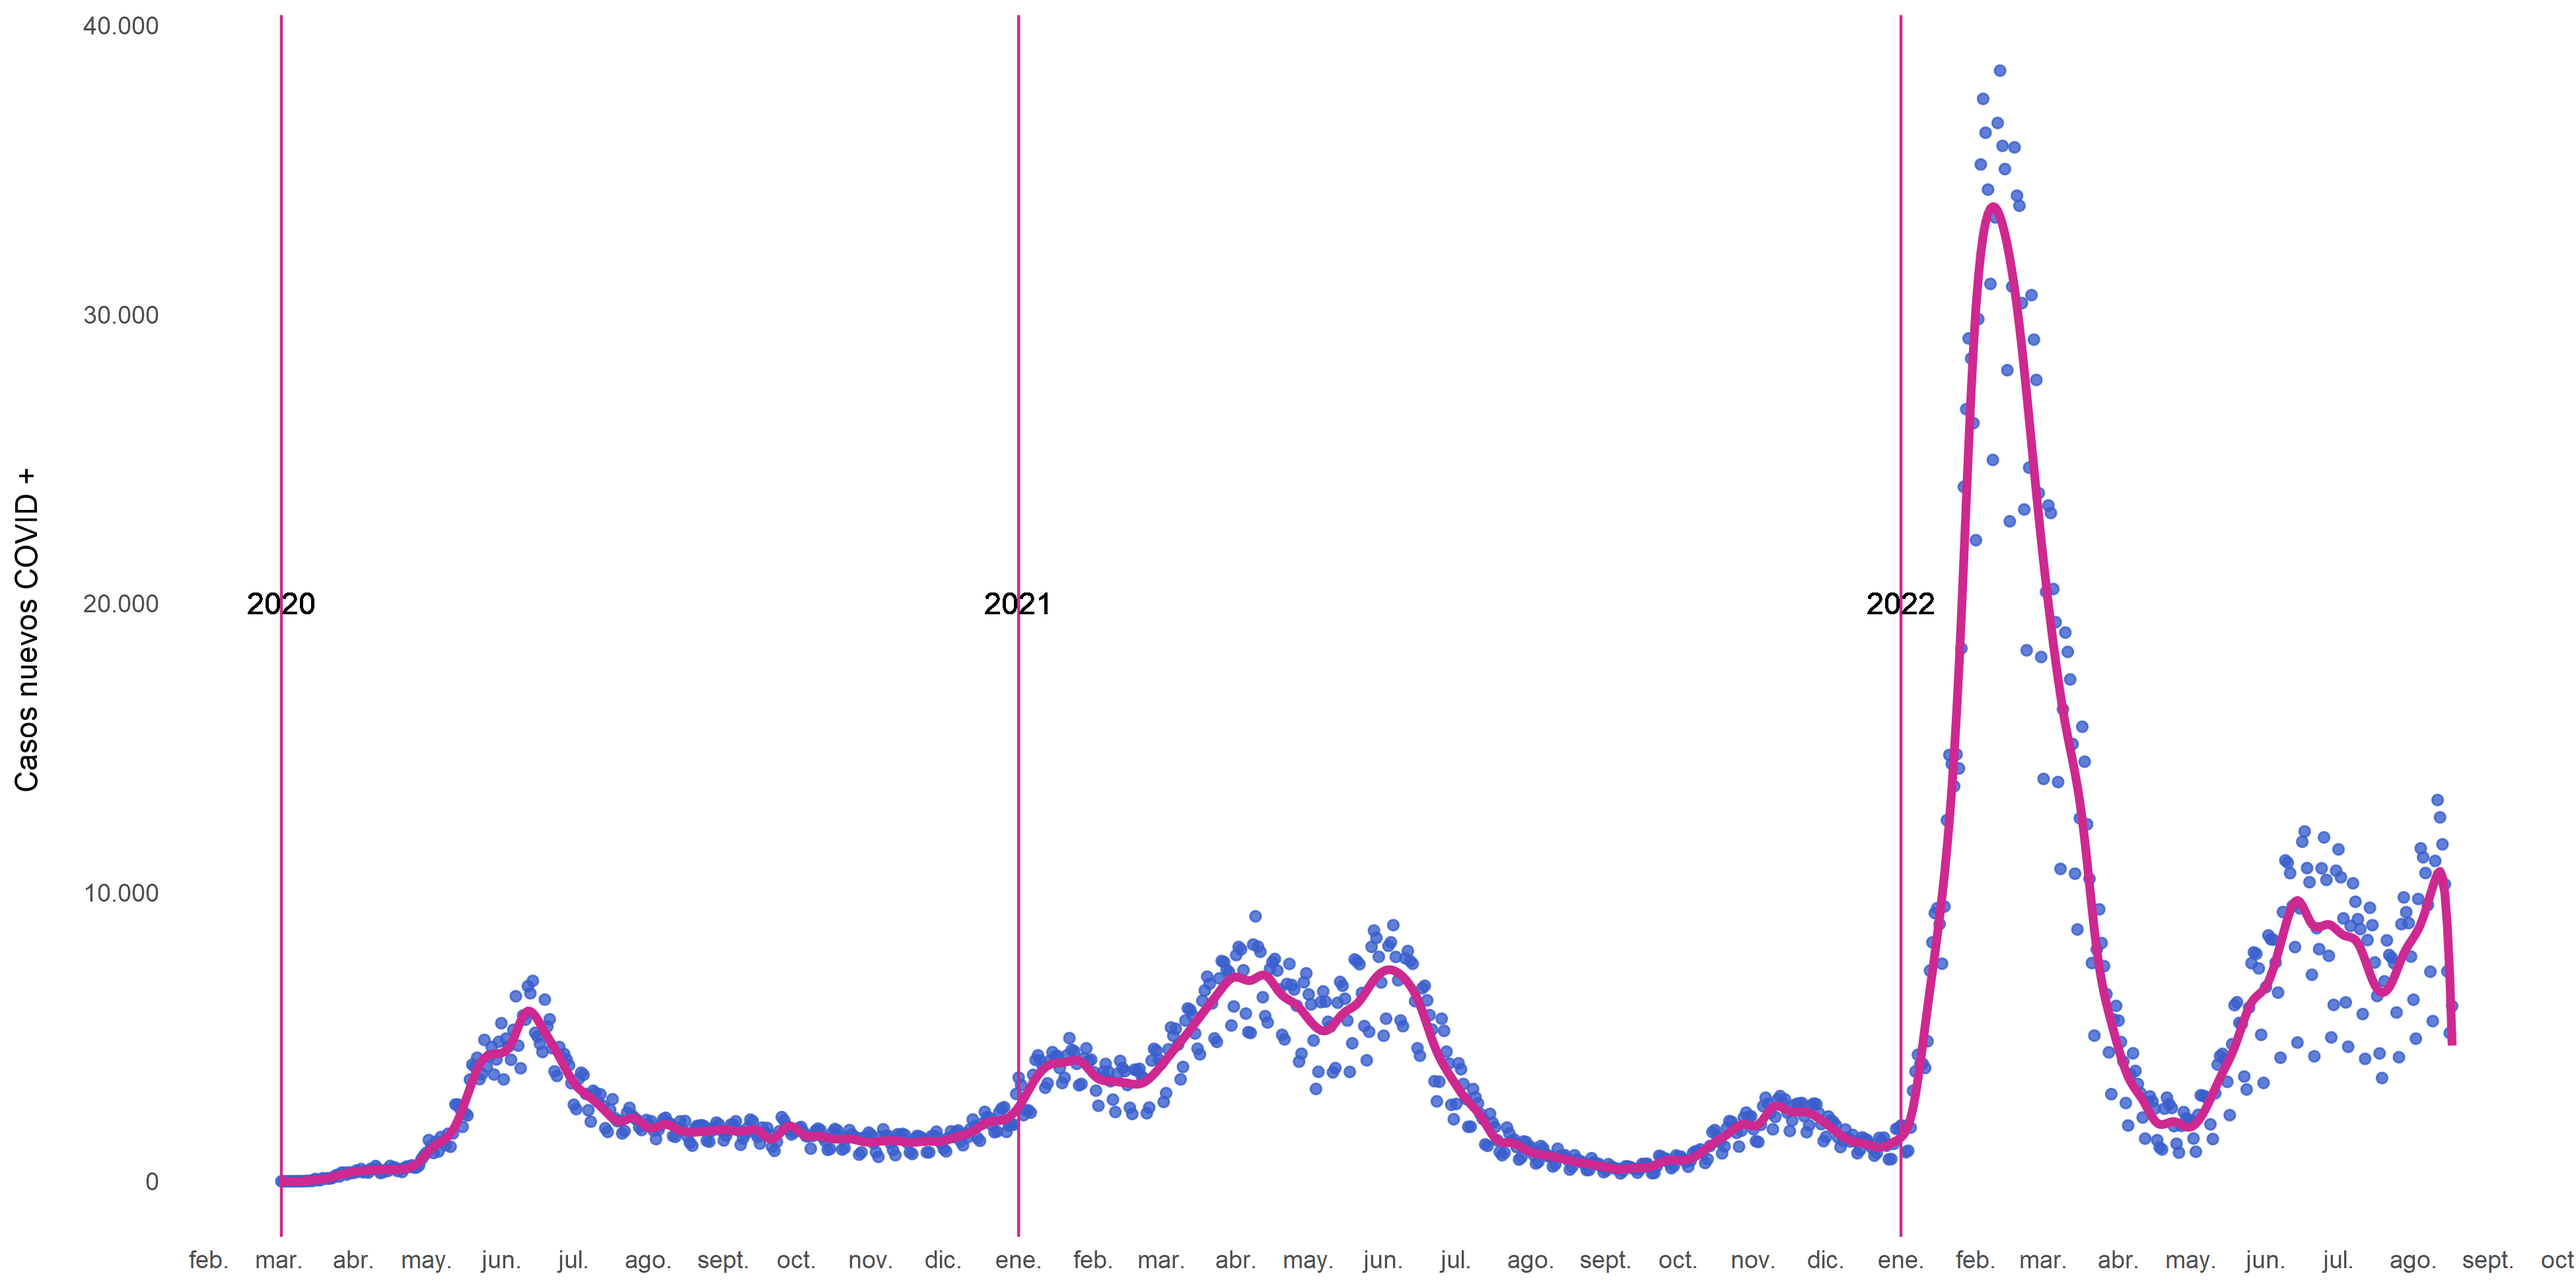
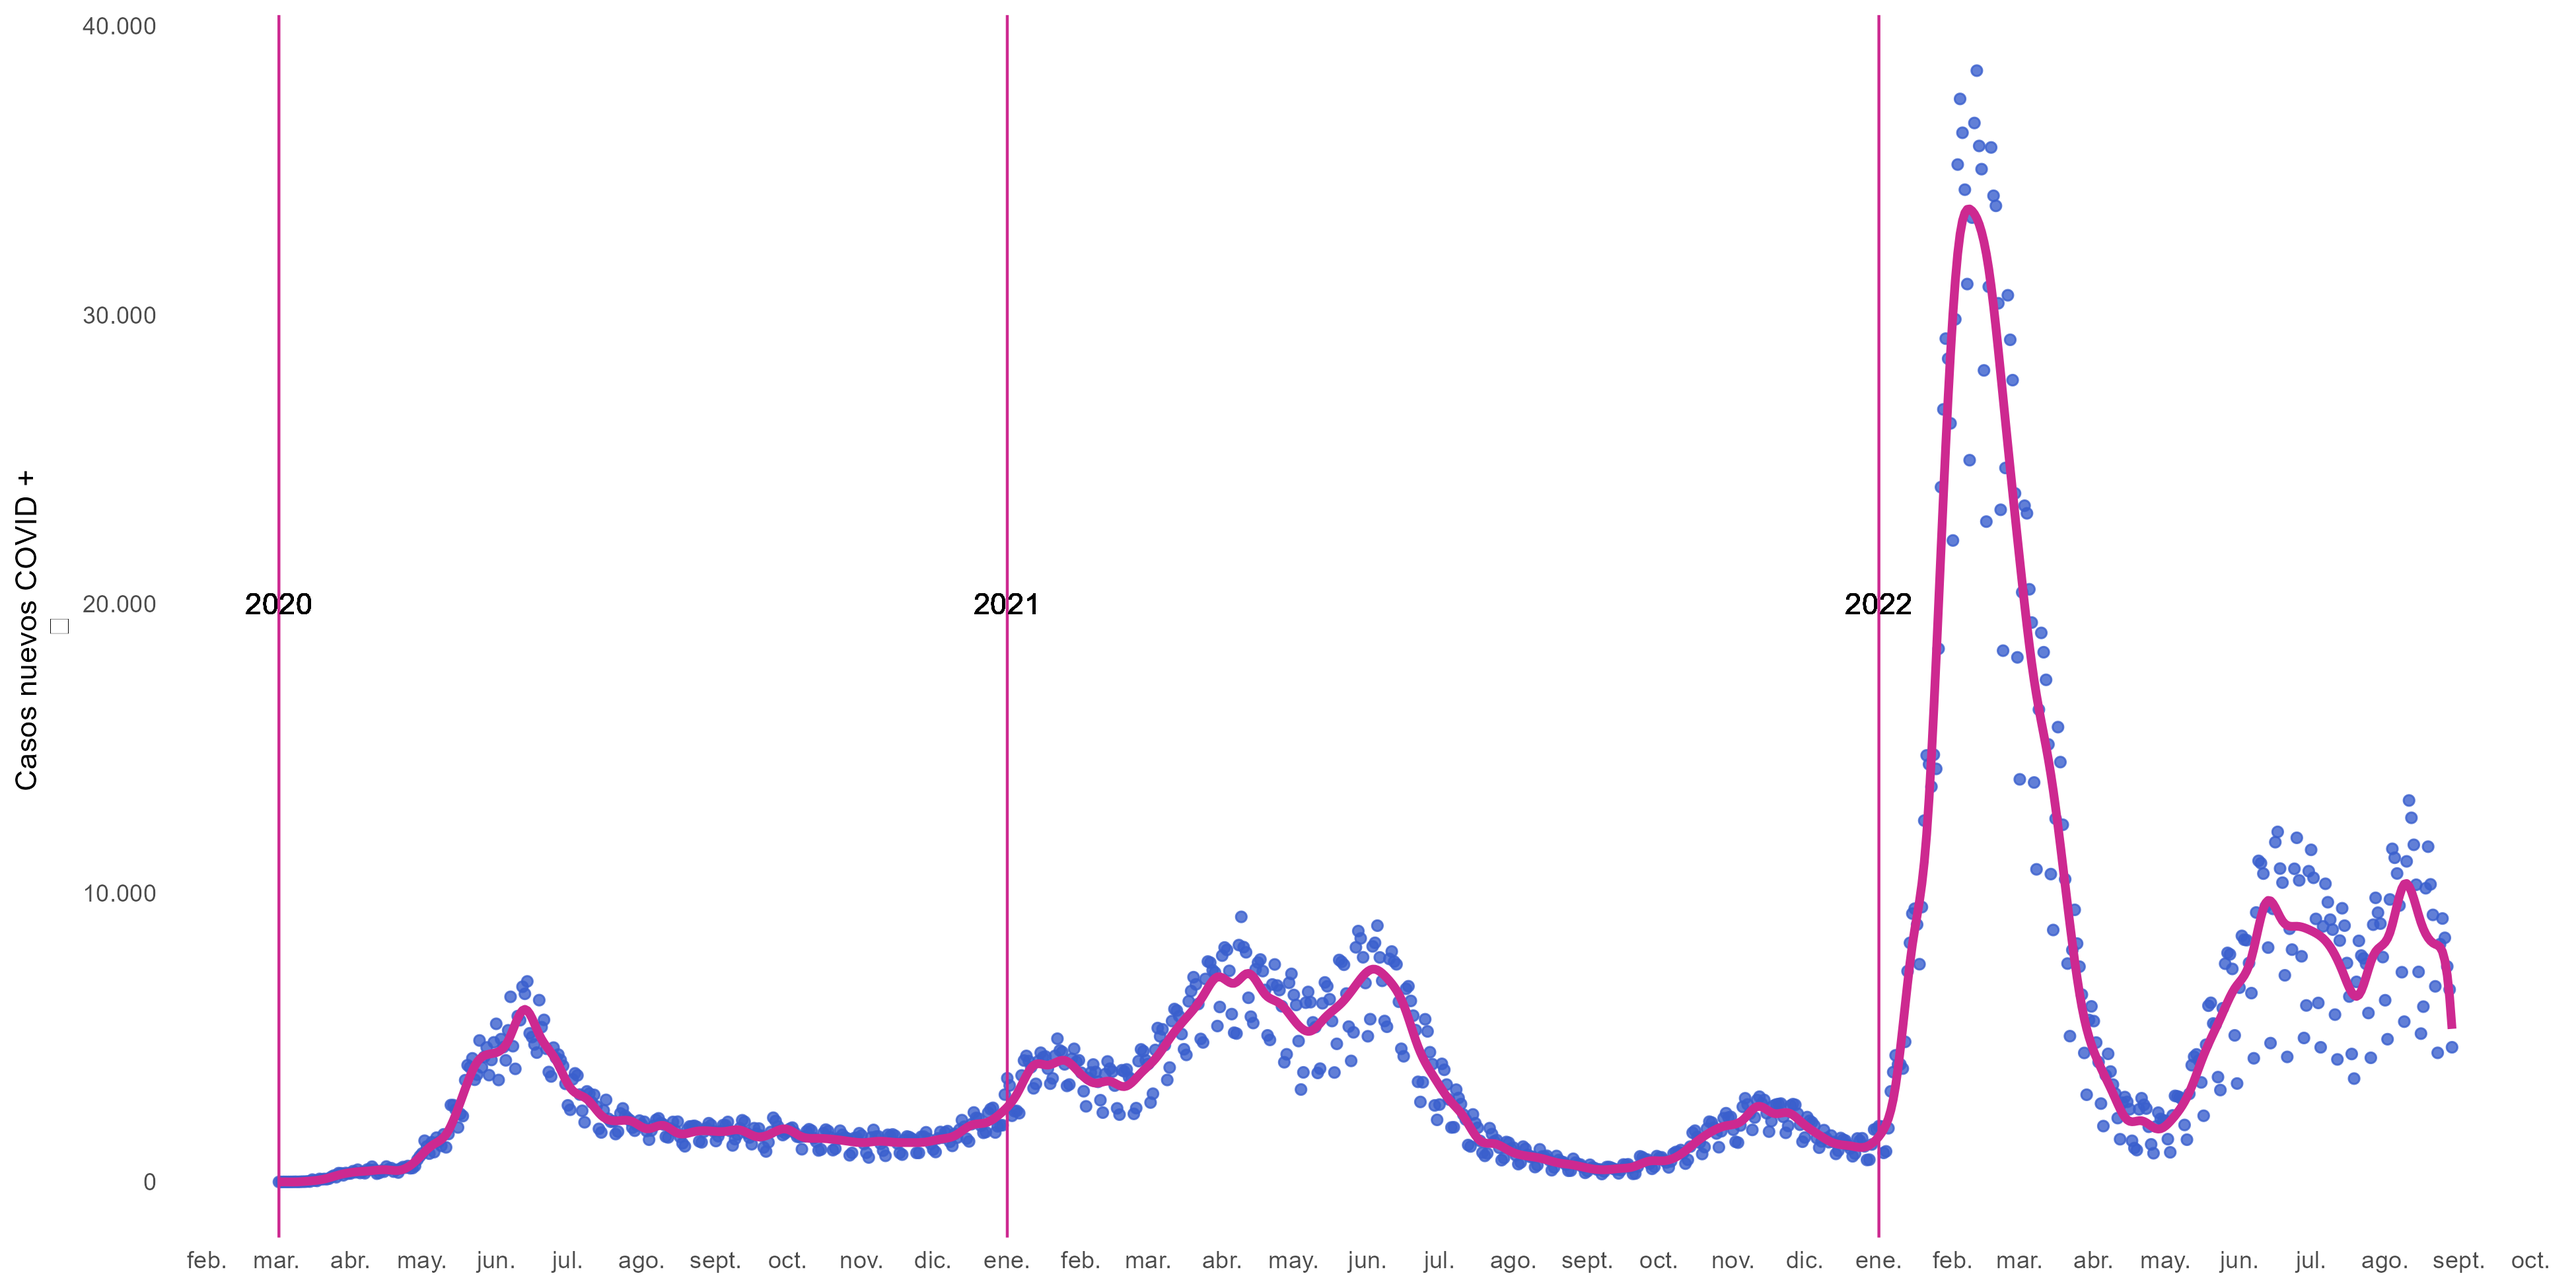
F5 30_08

diff --git a/README.md b/README.md
@@ -1,6 +1,6 @@
 # covid_scl
 
-COVID's situation in Chile. **Last update: 18-08-2022**
+COVID's situation in Chile. **Last update: 30-08-2022**
 
 ## COVID stripes
 
